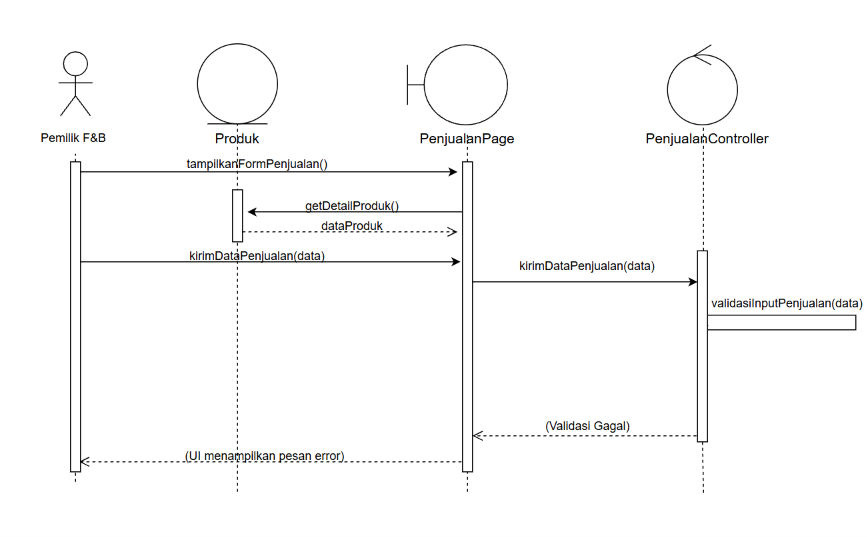
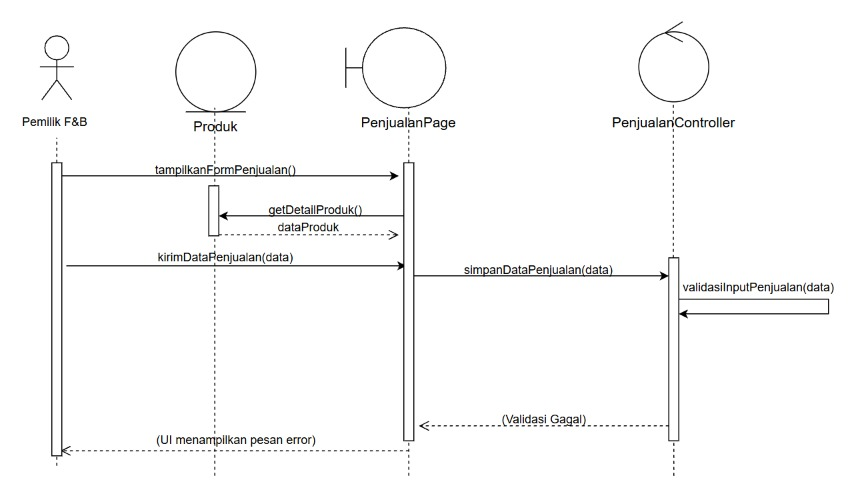
docs: revisi sequence dan class diagram UC04

diff --git a/docs/M8/K03_G08_DPPL2.md b/docs/M8/K03_G08_DPPL2.md
@@ -34,7 +34,7 @@ Dipersiapkan oleh:
 | :--- | :--- |
 | *A* | *Merevisi realisasi UC11 dan UC12: mengganti identifikasi kelas pada kedua use case, menyeragamkan penamaan atribut dan operasi ke bahasa Indonesia, lalu mengganti sequence diagram dan class diagram sehingga konsisten dengan perubahan yang dilakukan* |
 | *B* | *Merapikan serta menyesuaikan daftar kelas perancangan keseluruhan dengan perubahan yang ada* |
-| *C* | *Menambahkan operasi getStatus() di C02 dan catatPenjualan() di C06 serta merevisi sequence diagram UC04* |
+| *C* | *Menambahkan operasi getStatus() di C02 dan catatPenjualan() di C06 serta merevisi sequence diagram dan diagram kelas UC04 dan menambah* |
 | ... |  |
 
 ---
@@ -789,7 +789,7 @@ Tabel 4.1. Daftar Kelas Perancangan Keseluruhan
 
 | ID Kelas | Nama Kelas | Atribut | Metode/Operasi |
 | :--- | :--- | :--- | :--- |
-| *C01* | *AkunPengguna* | *idAkun, email, kataSandi, tipeAkun* | *registrasi()* |
+| *C01* | *AkunPengguna* | *idAkun, email, kataSandi, tipeAkun* | *registrasi(), getAkunId()* |
 | *C02* | *Pendaftaran* | *idPendaftaran, tanggalDaftar, statusVerifikasi* | *ajukanPendaftaran(), getDaftarMenungguVerifikasi(), getDetailPendaftar(), updateStatus(), getStatus()* |
 | *C03* | *DokumenPendukung* | *idDokumen, namaFile, tipeDokumen* | *unggahDokumen(), getDokumen()* |
 | *C04* | *VerifikasiController* | *-* | *tampilkanDaftarPendaftar(), ambilDetailPendaftar(), prosesVerifikasi()* |
